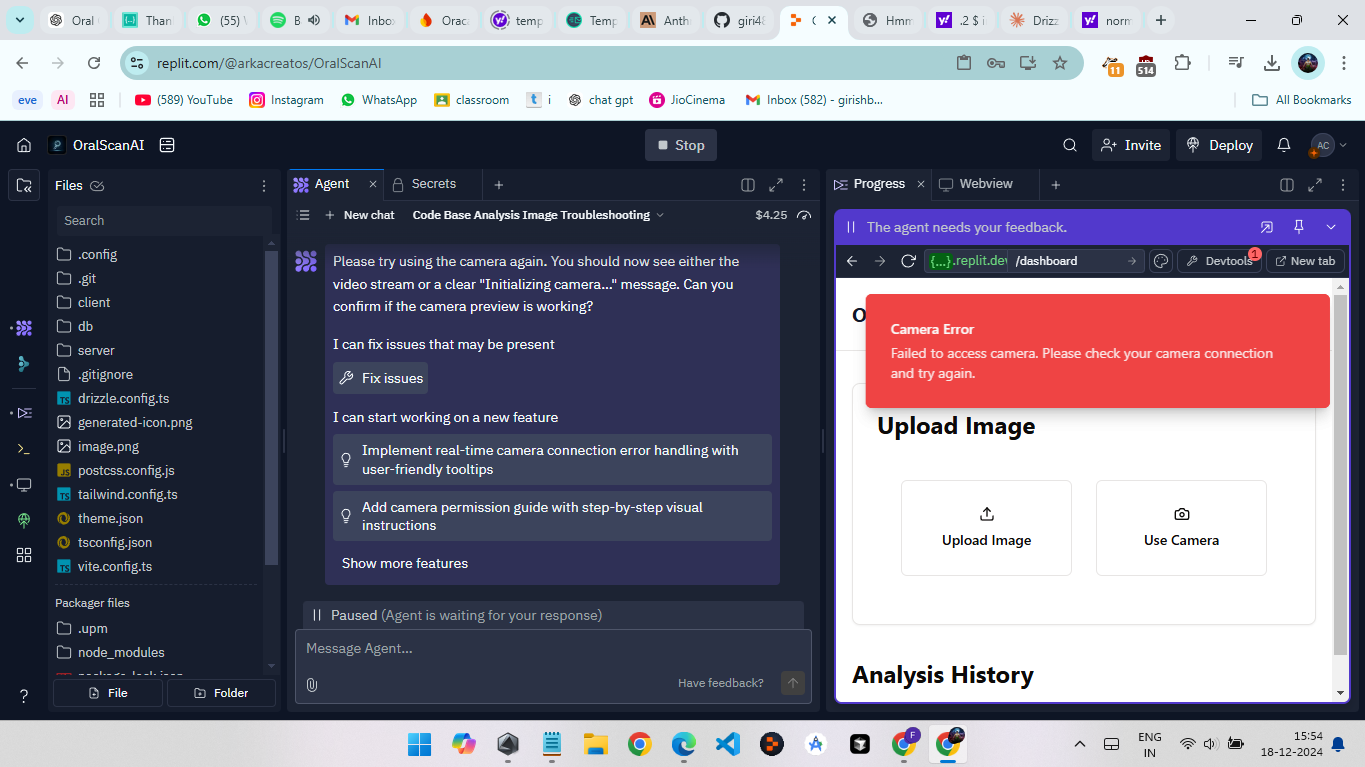
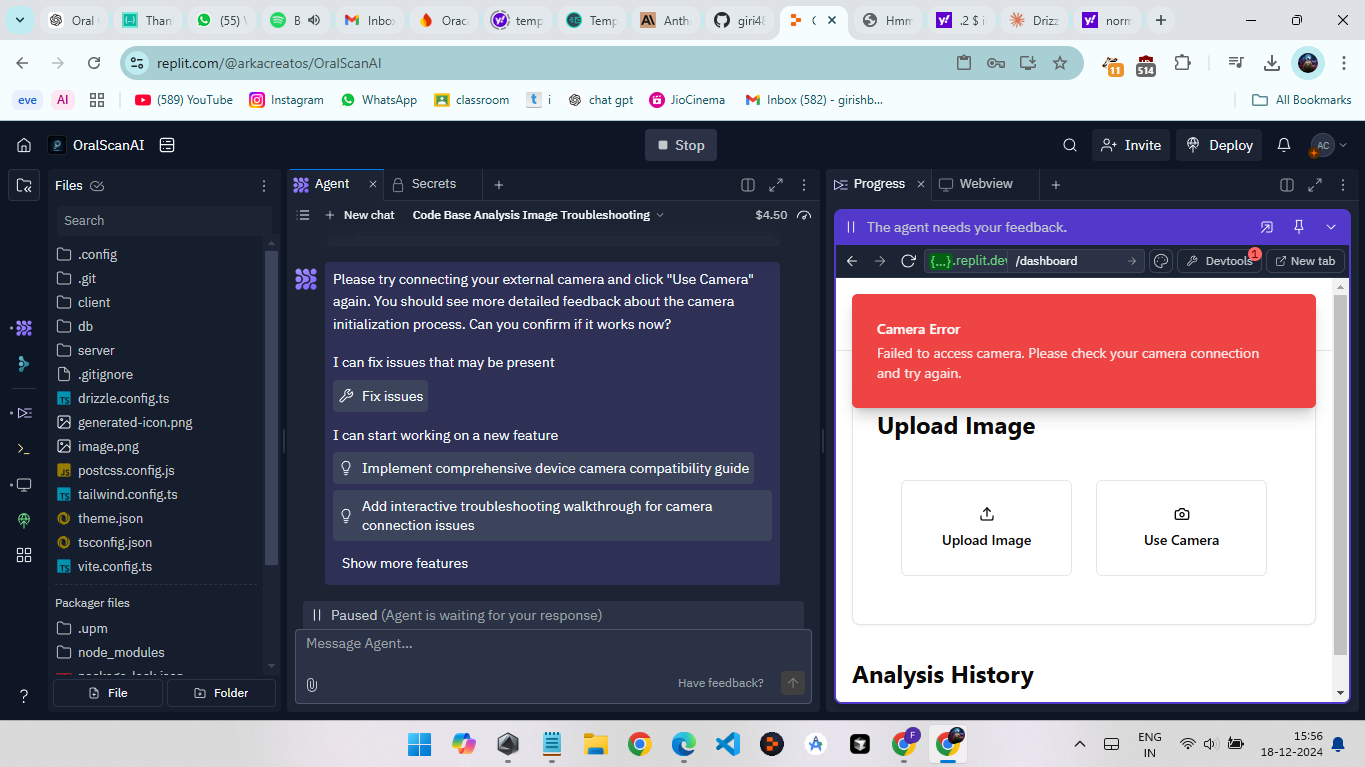
Agent query: Please try connecting your external camera again. You should now see more detailed status messages and error information. Can you see what specific error occurs when trying to access the camera?
Improve camera initialization process with robust error handling and progressive fallback mechanisms.

Screenshot: https://storage.googleapis.com/screenshot-production-us-central1/542788b3-7641-4b1f-a472-fb03727e4f28/7d57d102-c7a2-4877-8fbe-b357baecb45e.jpg

diff --git a/client/src/components/ImageUpload.tsx b/client/src/components/ImageUpload.tsx
@@ -59,7 +59,7 @@ export default function ImageUpload() {
 
   const startCamera = async () => {
     try {
-      console.log("Requesting camera access...");
+      console.log("Starting camera initialization process...");
       
       // Check if mediaDevices is supported
       if (!navigator.mediaDevices || !navigator.mediaDevices.getUserMedia) {
@@ -71,70 +71,112 @@ export default function ImageUpload() {
         throw new Error("Video element not found");
       }
 
-      // Try to get the list of available cameras first
-      const devices = await navigator.mediaDevices.enumerateDevices();
-      const videoDevices = devices.filter(device => device.kind === 'videoinput');
-      console.log("Available cameras:", videoDevices.map(device => ({
-        deviceId: device.deviceId,
-        label: device.label || 'Unnamed Camera',
-        groupId: device.groupId
-      })));
-
-      if (videoDevices.length === 0) {
-        throw new Error("No camera devices found");
+      try {
+        // Request camera permissions first
+        console.log("Requesting initial camera permissions...");
+        await navigator.mediaDevices.getUserMedia({ video: true });
+        console.log("Camera permission granted");
+      } catch (permissionError) {
+        console.error("Permission error:", permissionError);
+        throw new Error(
+          permissionError instanceof Error 
+            ? permissionError.message 
+            : "Failed to get camera permissions"
+        );
       }
 
-      // Request camera permissions first
-      await navigator.mediaDevices.getUserMedia({ video: true });
-      console.log("Camera permission granted");
+      // Try to get the list of available cameras
+      let videoDevices: MediaDeviceInfo[] = [];
+      try {
+        console.log("Enumerating available cameras...");
+        const devices = await navigator.mediaDevices.enumerateDevices();
+        videoDevices = devices.filter(device => device.kind === 'videoinput');
+        console.log("Available cameras:", videoDevices.map(device => ({
+          deviceId: device.deviceId,
+          label: device.label || 'Unnamed Camera',
+          groupId: device.groupId
+        })));
+      } catch (enumError) {
+        console.error("Error enumerating devices:", enumError);
+        throw new Error("Failed to detect available cameras");
+      }
+
+      if (videoDevices.length === 0) {
+        throw new Error("No camera devices found. Please ensure your external camera is properly connected.");
+      }
 
       // Stop any existing streams
       if (streamRef.current) {
+        console.log("Stopping existing stream...");
         streamRef.current.getTracks().forEach(track => track.stop());
         streamRef.current = null;
       }
 
       // Clear existing video source
       if (videoRef.current.srcObject) {
+        console.log("Clearing existing video source...");
         const oldStream = videoRef.current.srcObject as MediaStream;
         oldStream.getTracks().forEach(track => track.stop());
         videoRef.current.srcObject = null;
       }
 
-      // Try to initialize camera with specific constraints
+      // Initialize camera stream with progressive fallbacks
       let stream: MediaStream;
       try {
-        // First try with the first available camera device
+        console.log("Starting camera initialization sequence...");
         const primaryDevice = videoDevices[0];
-        console.log("Attempting to initialize primary camera:", primaryDevice.label || 'Unnamed Camera');
         
-        stream = await navigator.mediaDevices.getUserMedia({
-          video: {
-            deviceId: primaryDevice.deviceId ? { exact: primaryDevice.deviceId } : undefined,
-            width: { ideal: 1280 },
-            height: { ideal: 720 },
-            frameRate: { ideal: 30 }
-          }
-        });
-        
-        console.log("Successfully initialized primary camera");
-      } catch (primaryError) {
-        console.error("Error with primary camera:", primaryError);
-        
-        // Fall back to basic video capture
-        console.log("Attempting fallback to basic video capture...");
+        // Try first with exact deviceId and constraints
         try {
+          console.log("Attempting to initialize camera with exact constraints:", {
+            deviceId: primaryDevice.deviceId,
+            label: primaryDevice.label || 'Unnamed Camera'
+          });
+          
           stream = await navigator.mediaDevices.getUserMedia({
             video: {
-              width: { ideal: 640 },
-              height: { ideal: 480 }
+              deviceId: { exact: primaryDevice.deviceId },
+              width: { ideal: 1280 },
+              height: { ideal: 720 },
+              frameRate: { ideal: 30 }
             }
           });
-          console.log("Successfully initialized camera with basic settings");
-        } catch (fallbackError) {
-          console.error("Fallback camera initialization failed:", fallbackError);
-          throw new Error("Failed to initialize camera with any settings");
+          console.log("Successfully initialized camera with exact constraints");
+        } catch (exactError) {
+          console.warn("Failed with exact constraints:", exactError);
+          
+          // Try with ideal constraints
+          try {
+            console.log("Attempting with ideal constraints...");
+            stream = await navigator.mediaDevices.getUserMedia({
+              video: {
+                deviceId: { ideal: primaryDevice.deviceId },
+                width: { ideal: 1280 },
+                height: { ideal: 720 }
+              }
+            });
+            console.log("Successfully initialized camera with ideal constraints");
+          } catch (idealError) {
+            console.warn("Failed with ideal constraints:", idealError);
+            
+            // Final fallback to basic video capture
+            console.log("Attempting basic video capture...");
+            stream = await navigator.mediaDevices.getUserMedia({
+              video: {
+                width: { ideal: 640 },
+                height: { ideal: 480 }
+              }
+            });
+            console.log("Successfully initialized camera with basic settings");
+          }
         }
+      } catch (streamError) {
+        console.error("All camera initialization attempts failed:", streamError);
+        throw new Error(
+          streamError instanceof Error 
+            ? `Failed to initialize camera: ${streamError.message}`
+            : "Failed to initialize camera stream"
+        );
       }
 
       // Ensure video tracks are active
@@ -402,10 +444,20 @@ export default function ImageUpload() {
               height={720}
             />
             <div className={`absolute inset-0 flex flex-col items-center justify-center text-white transition-opacity duration-300 ${isCameraActive ? 'opacity-0' : 'opacity-100'}`}>
-              <div className="bg-black/50 p-4 rounded-lg text-center">
+              <div className="bg-black/50 p-4 rounded-lg text-center max-w-md">
                 <div className="animate-spin h-8 w-8 border-4 border-white border-t-transparent rounded-full mx-auto mb-2"></div>
-                <p>Initializing camera...</p>
-                <p className="text-sm opacity-75 mt-1">Please ensure your external camera is properly connected</p>
+                <p className="text-lg font-semibold mb-2">Initializing camera...</p>
+                <div className="space-y-2 text-sm">
+                  <p>Please check:</p>
+                  <ul className="list-disc list-inside text-left space-y-1">
+                    <li>External camera is properly connected</li>
+                    <li>Camera permissions are granted in browser</li>
+                    <li>No other applications are using the camera</li>
+                  </ul>
+                  <p className="text-xs opacity-75 mt-2">
+                    If issues persist, try disconnecting and reconnecting your camera
+                  </p>
+                </div>
               </div>
             </div>
           </div>
